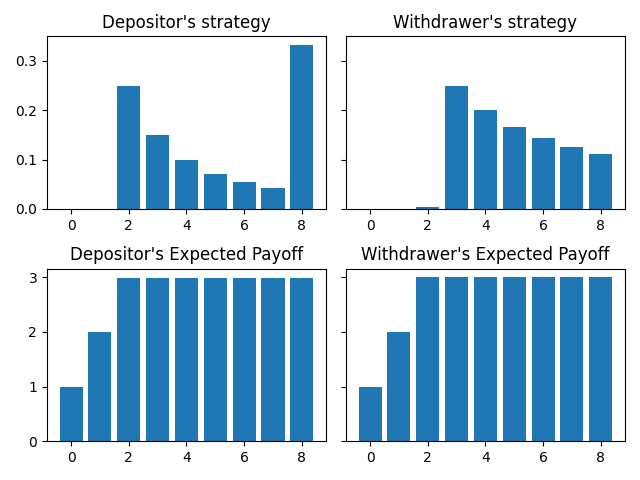
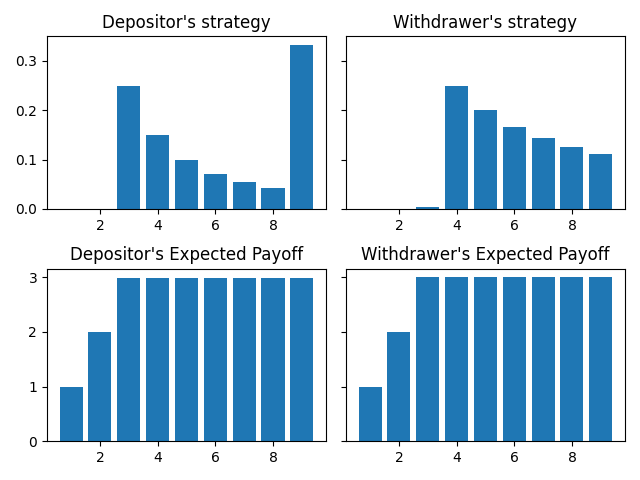
fix x axis

diff --git a/nash.py b/nash.py
@@ -4,7 +4,7 @@ import matplotlib.pyplot as plt
 
 def plot_strategy(d_strategy, w_strategy, eu_d, eu_w):
     fig, axes = plt.subplots(2, 2, sharey='row')
-    x = np.arange(len(d_strategy))
+    x = np.arange(1, len(d_strategy) + 1)
 
     # Plot each vector as a bar chart in the subplots
     axes[0, 0].bar(x, d_strategy)
